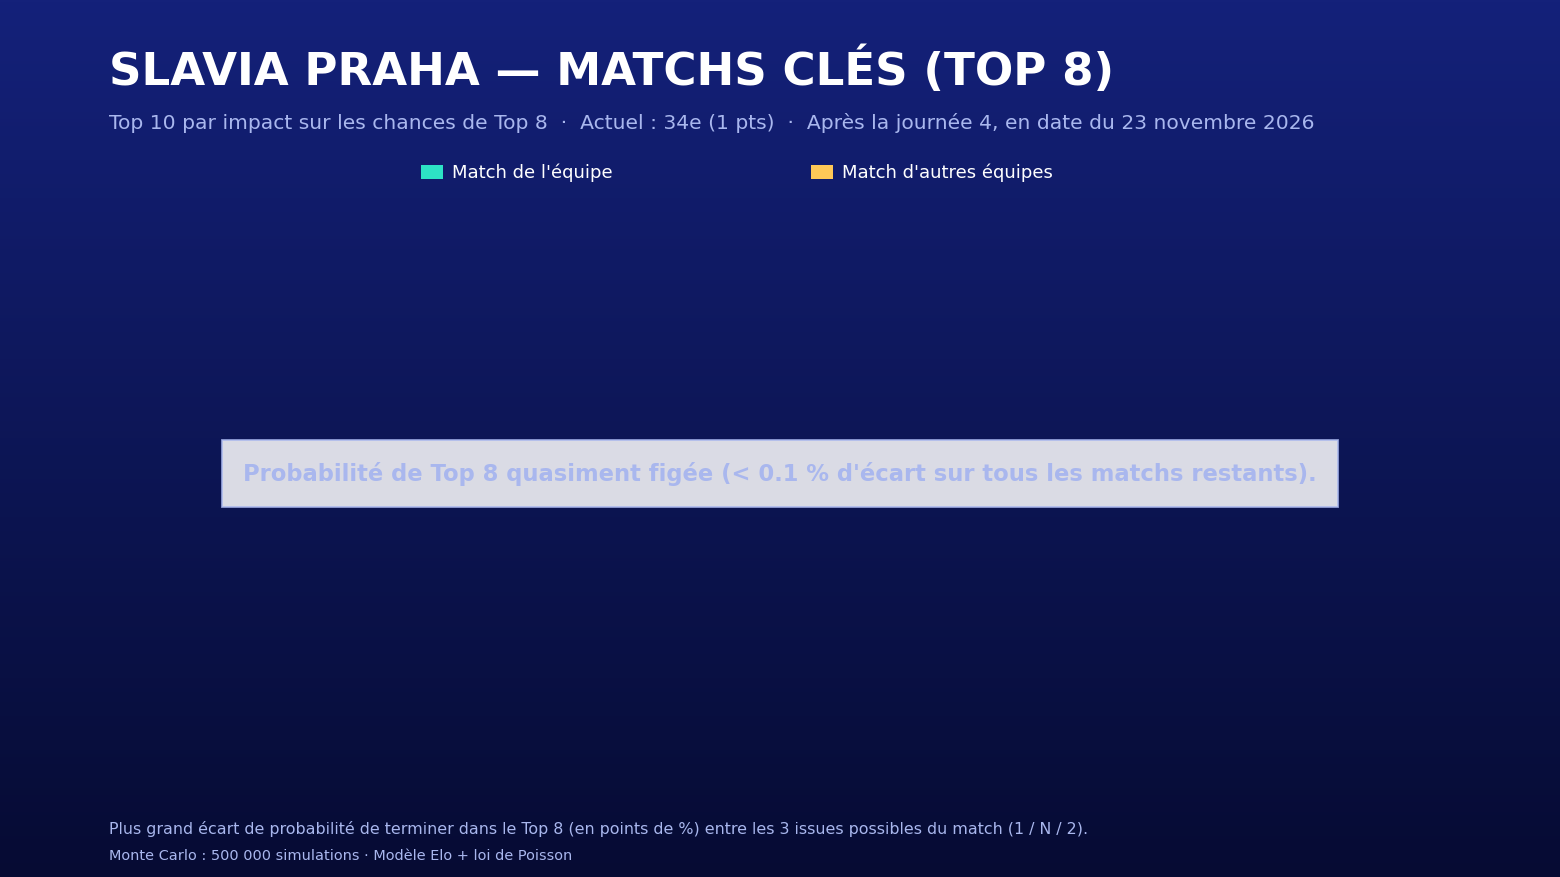
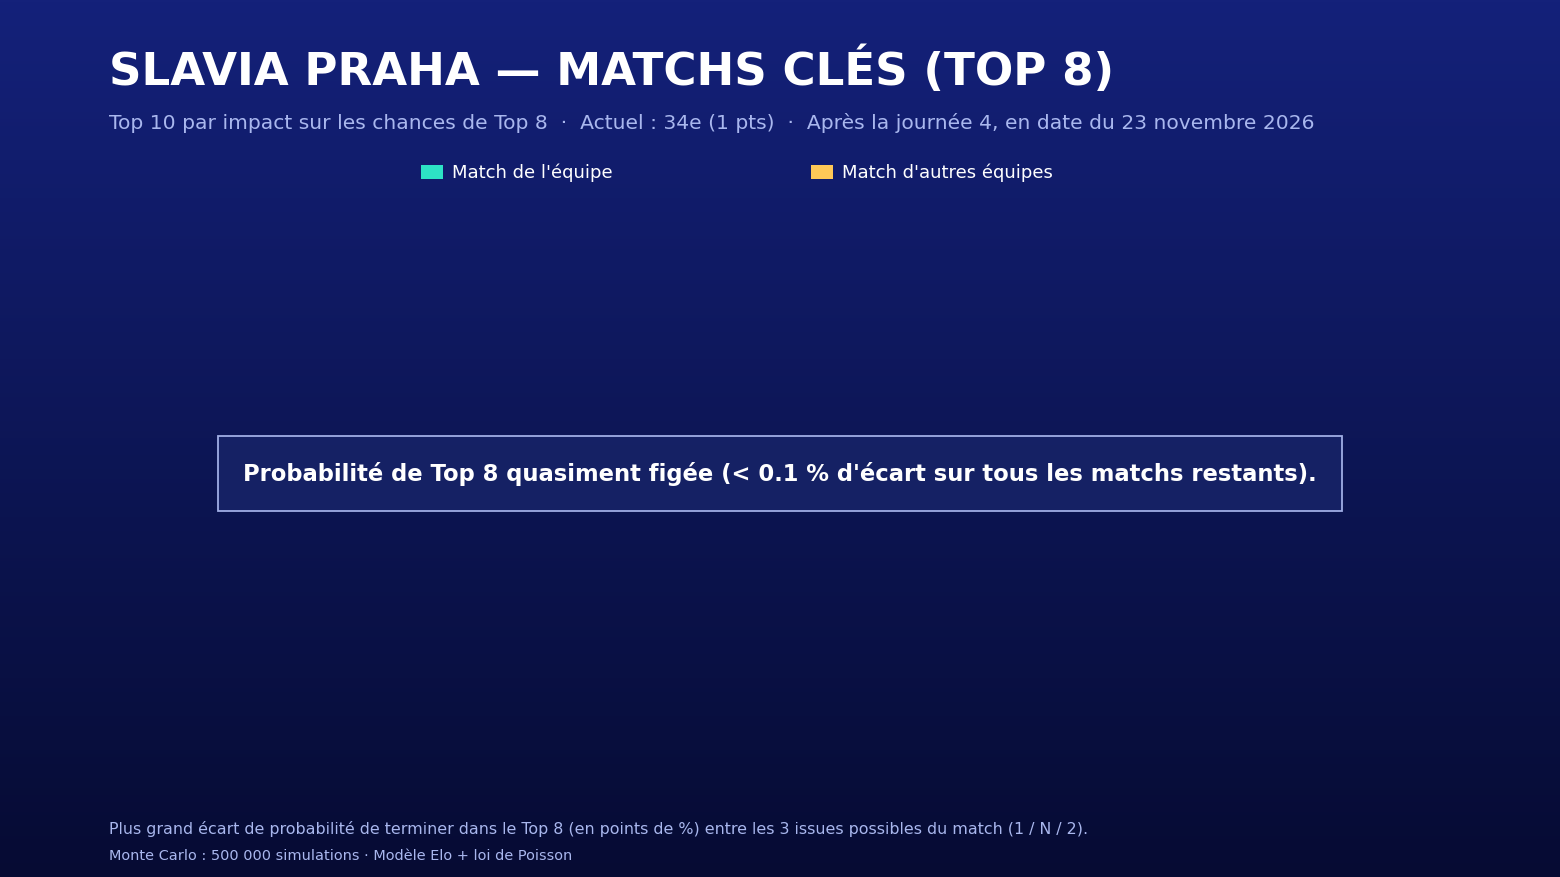
problèmes github

Changed region(s): [[0.1231, 0.4926, 0.8615, 0.5849]]

diff --git a/src/ldc/visualization.py b/src/ldc/visualization.py
@@ -450,8 +450,8 @@ def team_important_matches_card(
             va="center",
             fontsize=12.5,
             fontweight="bold",
-            color=MUTED,
-            bbox=dict(facecolor=PANEL, edgecolor=MUTED, alpha=0.85, pad=12),
+            color=TXT,
+            bbox=dict(facecolor="#162266", edgecolor=MUTED, alpha=0.94, pad=14),
         )
     else:
         ax.barh(y, vals, color=cols, height=0.62, zorder=3)
